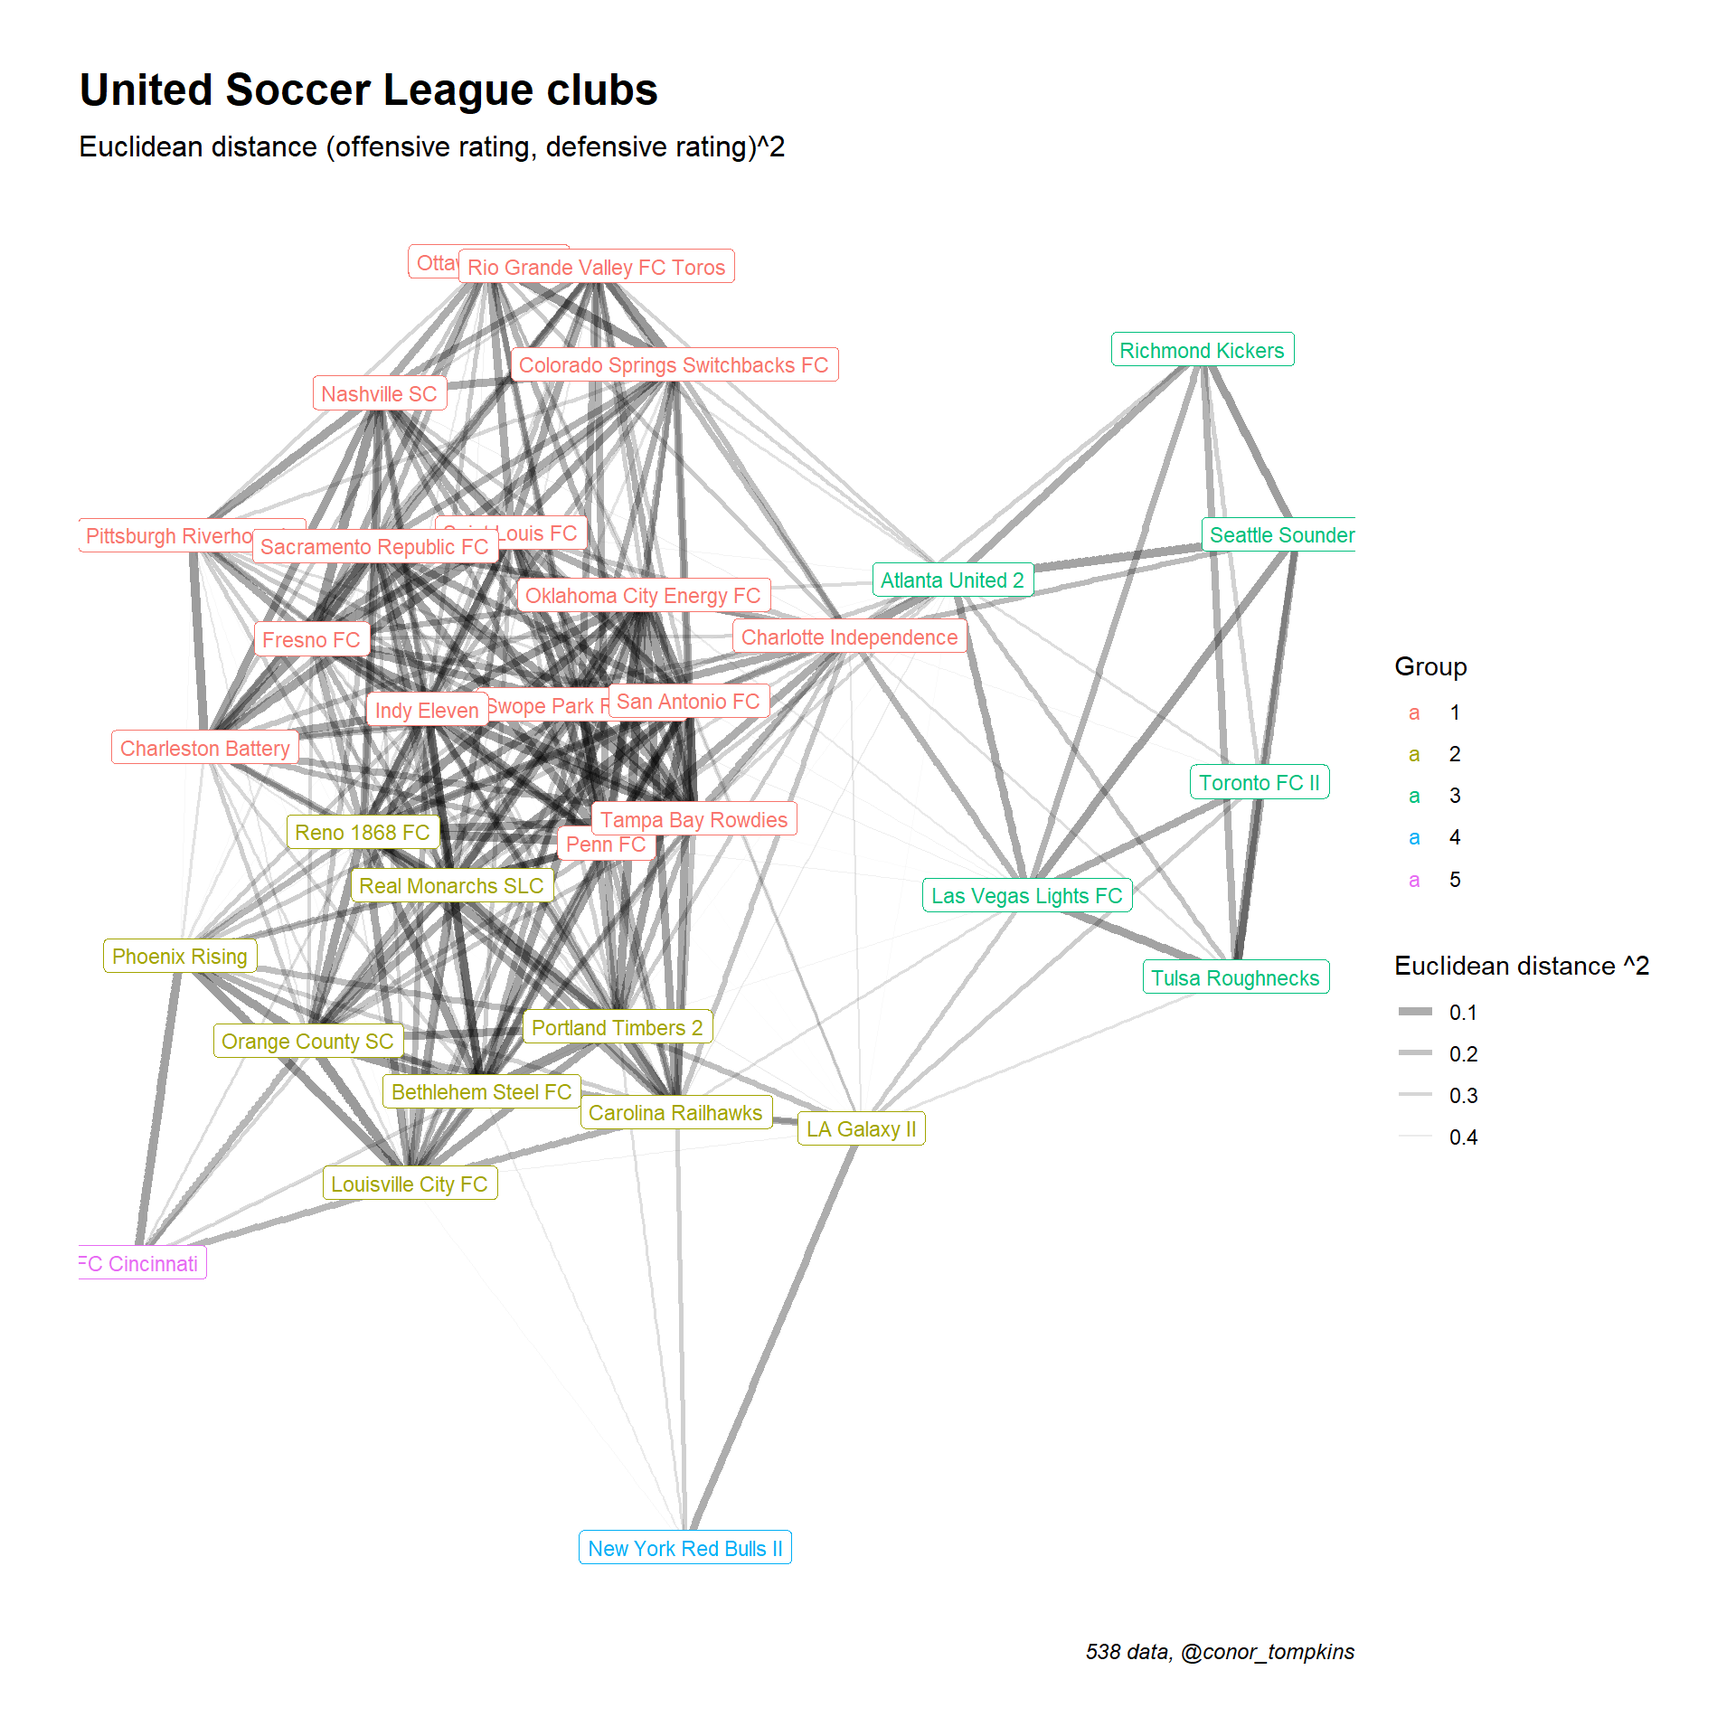
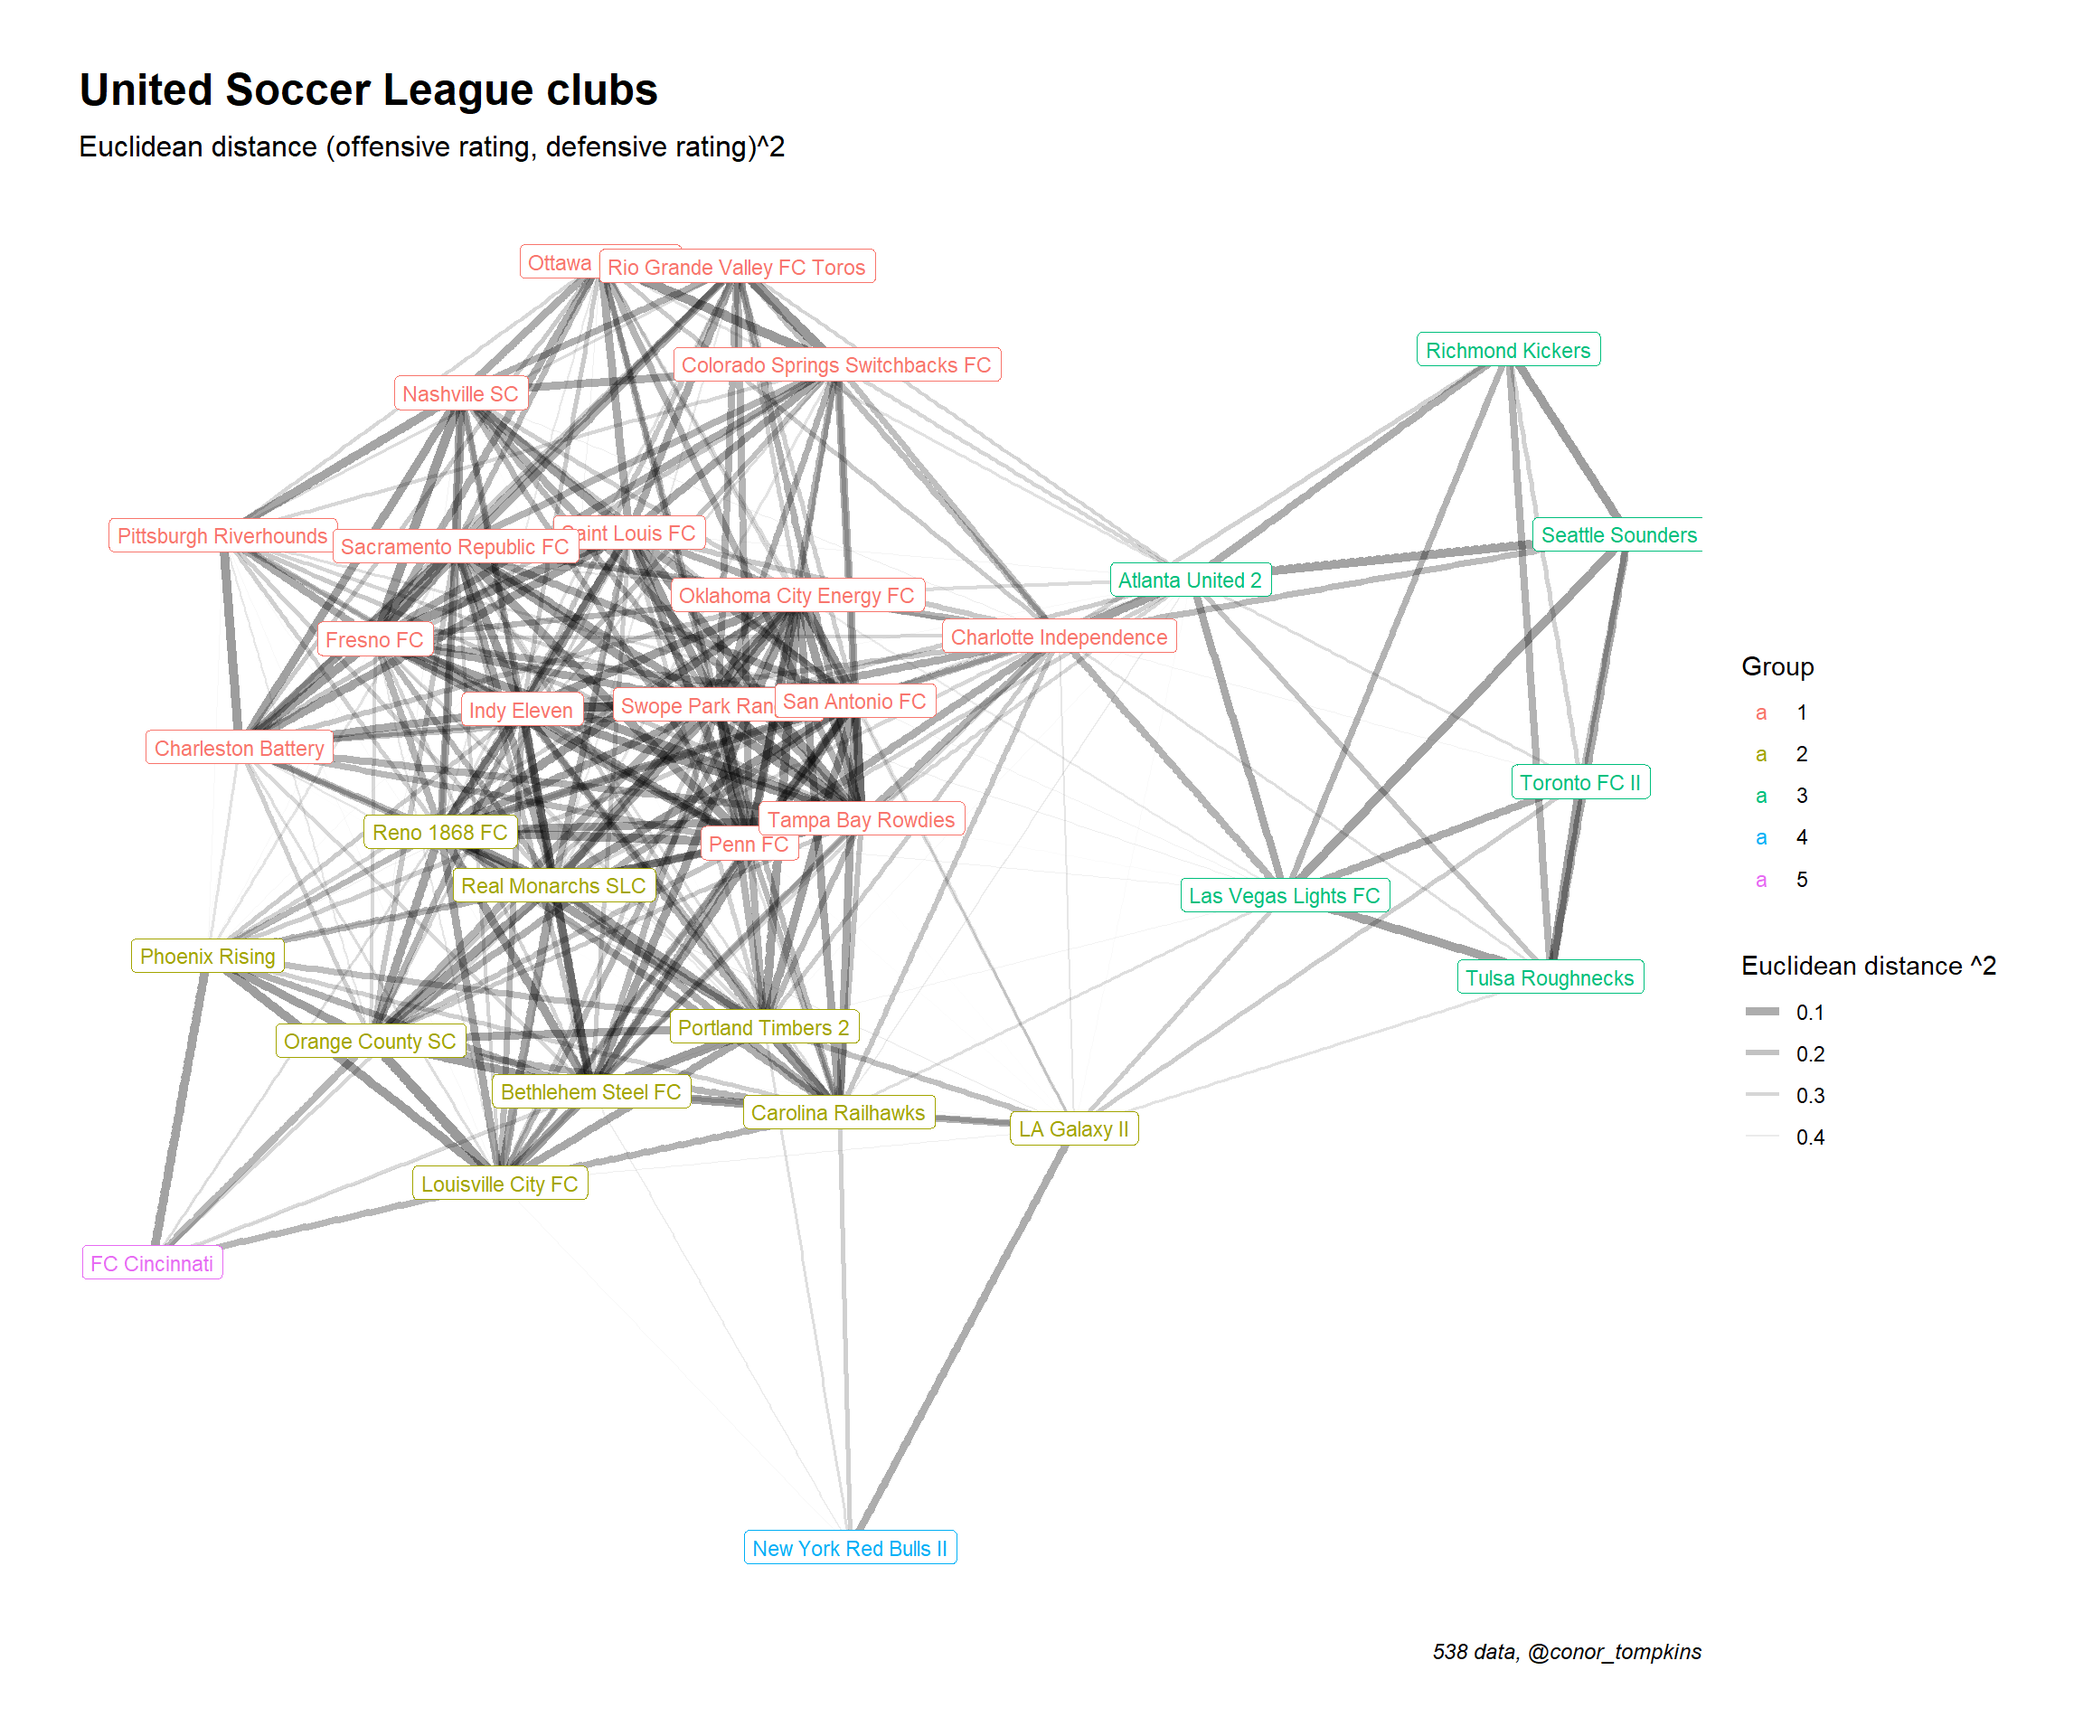
made chart wider

diff --git a/content/post/2018-09-14-networking-usl-clubs-with-euclidean-distance.html b/content/post/2018-09-14-networking-usl-clubs-with-euclidean-distance.html
@@ -94,5 +94,5 @@ df_dist %&gt;%
        x = NULL,
        y = NULL,
        caption = &quot;538 data, @conor_tompkins&quot;)</code></pre>
-<p><img src="/post/2018-09-14-networking-usl-clubs-with-euclidean-distance_files/figure-html/unnamed-chunk-4-1.png" width="960" /></p>
+<p><img src="/post/2018-09-14-networking-usl-clubs-with-euclidean-distance_files/figure-html/unnamed-chunk-4-1.png" width="1152" /></p>
 </div>
